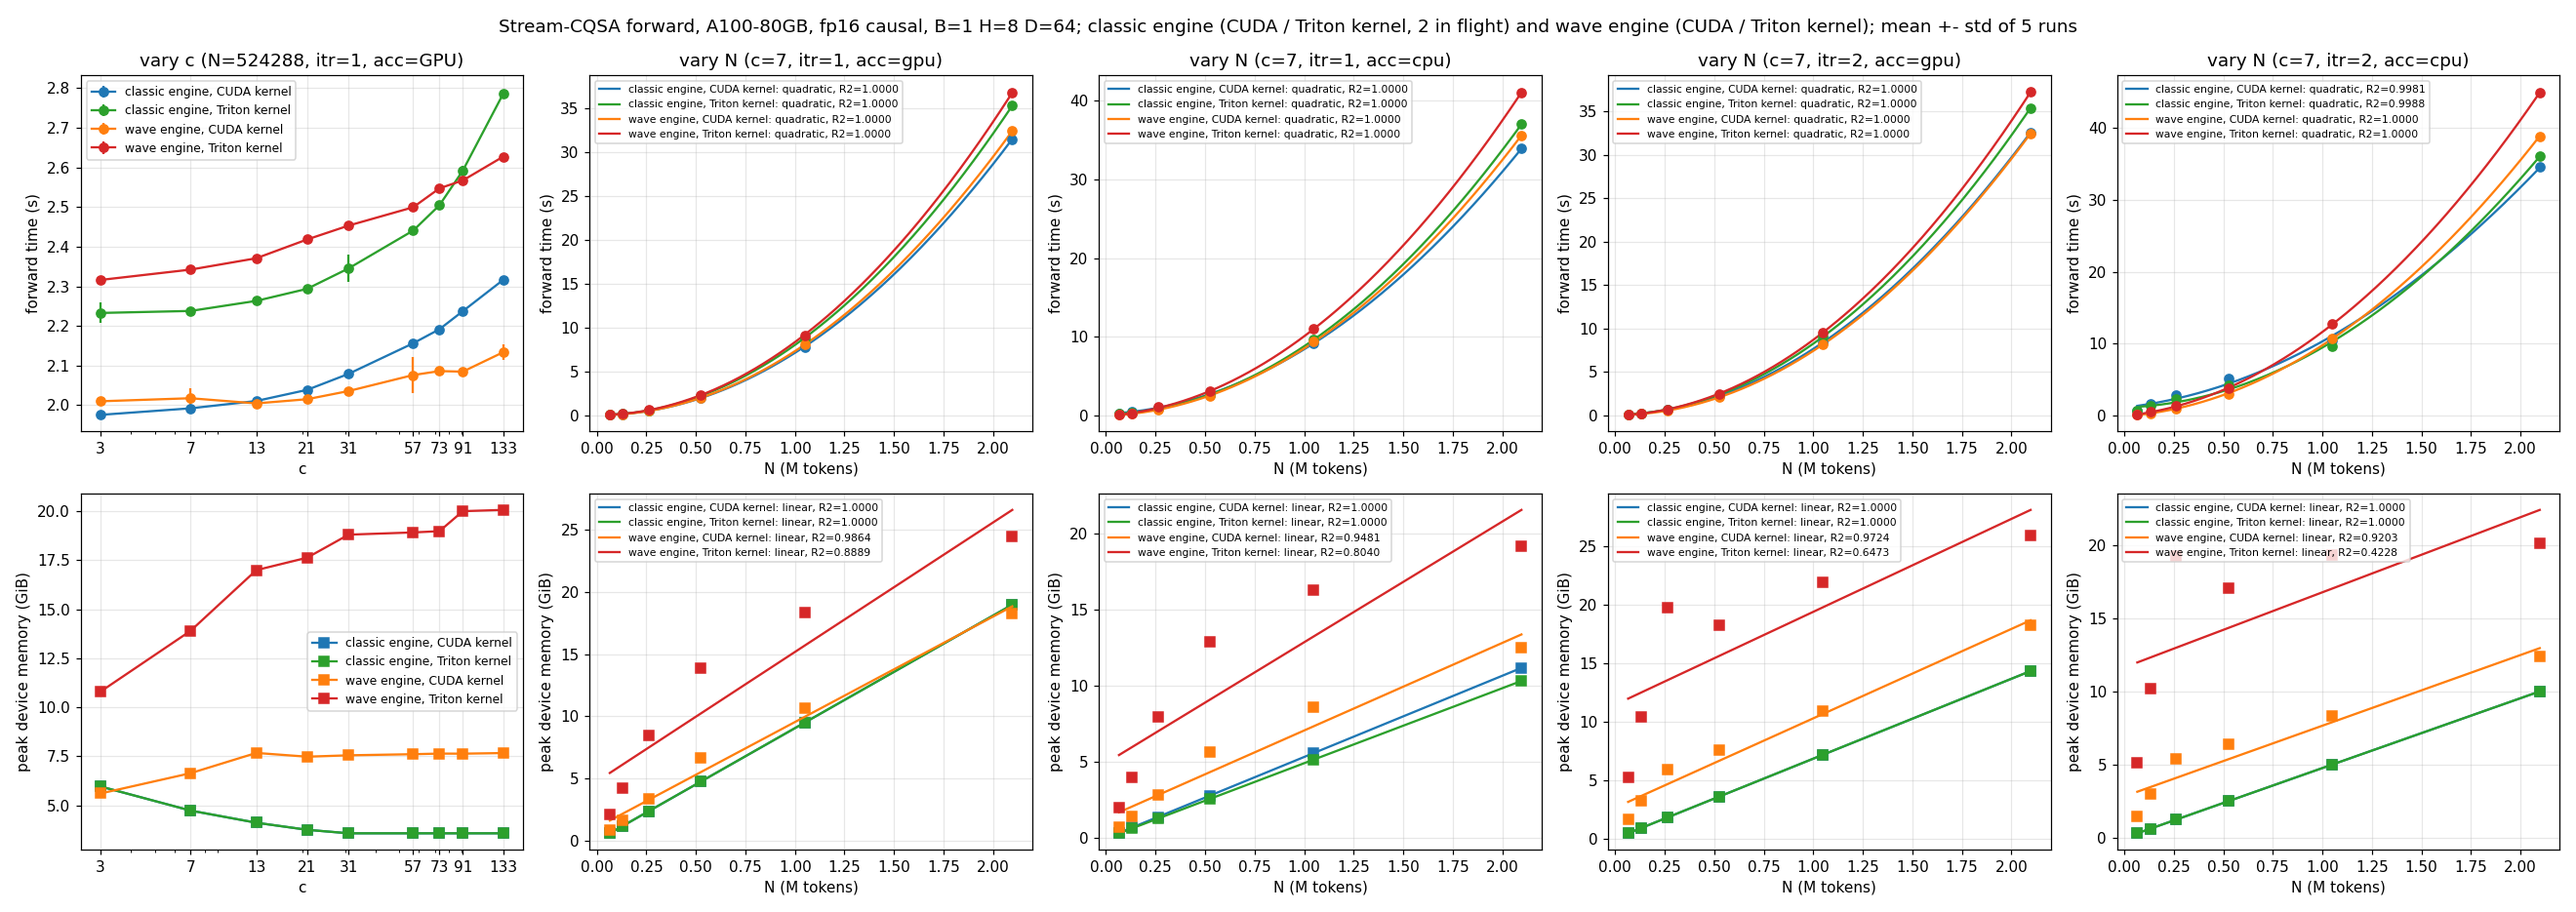
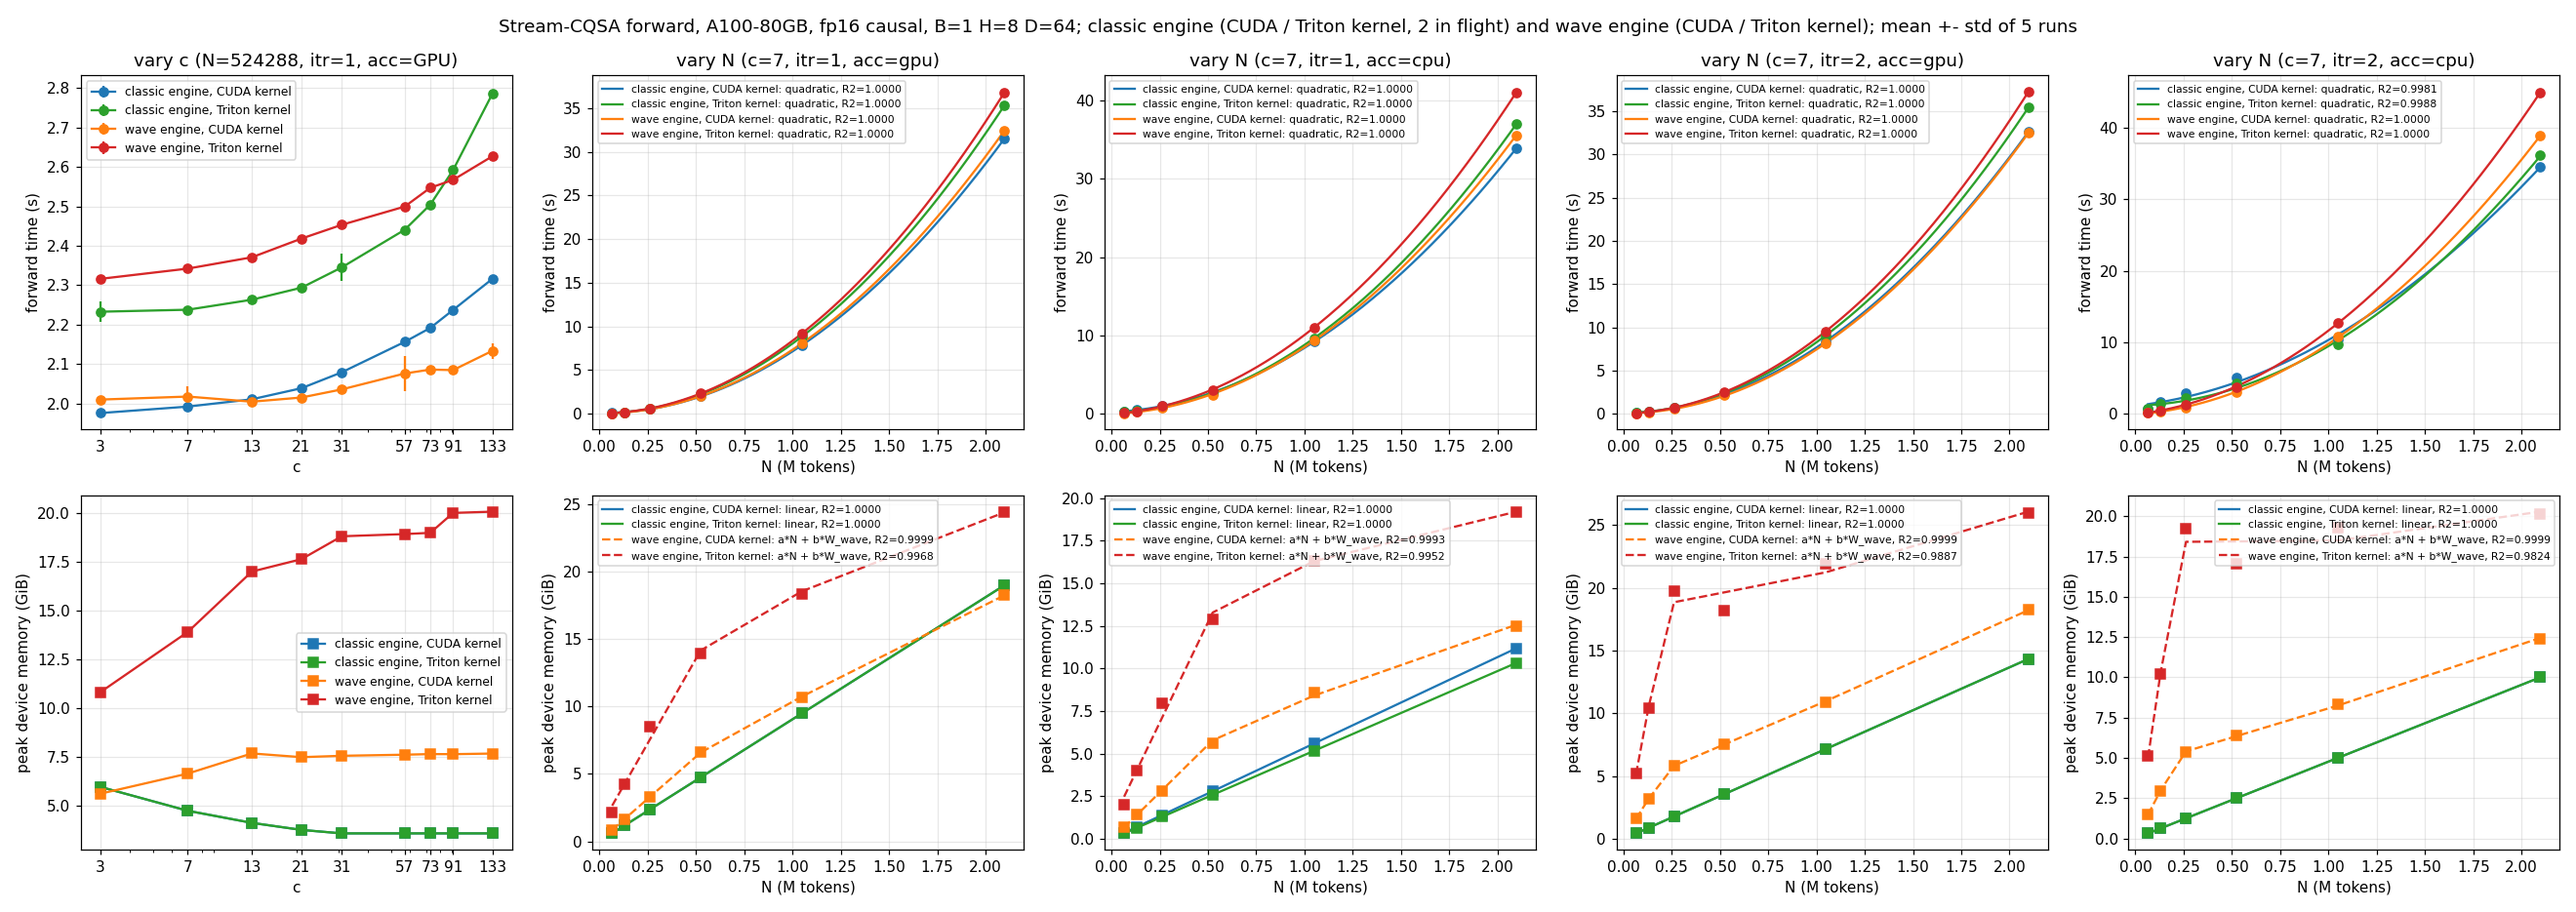
profile sweep: wave engines' peak memory modelled as a*N + b*W_wave (largest wave from the planner), R2 0.98-0.9998 instead of a poor linear fit

diff --git a/benchmarks/profile_sweep.py b/benchmarks/profile_sweep.py
@@ -98,6 +98,14 @@ def run(out_dir, reps, warmup, only=None, kernels=None):
             print(f"{cfg}: ERROR rc={r.get('rc')}", flush=True)
 
 
+def largest_wave_tokens(r) -> int:
+    """Packed tokens of the largest wave the planner forms for this row (default wave budget)."""
+    from stream_cqsa.native_wave import wave_tasks, plan_waves, DEFAULT_MAX_WAVE_TOKENS
+    from stream_cqsa.autoconfig import QUORUM_SETS
+    tasks = wave_tasks(r["N"], r["itr"], r["c"], QUORUM_SETS[r["c"]], H=H, D=D, itemsize=2)
+    return max(sum(int(t.local_size) for t in w) for w in plan_waves(tasks, DEFAULT_MAX_WAVE_TOKENS))
+
+
 def fit(out_dir):
     import matplotlib; matplotlib.use("Agg"); import matplotlib.pyplot as plt
     rows = [json.loads(l) for l in open(os.path.join(out_dir, "results.jsonl")) if "times_s" in l]
@@ -128,14 +136,25 @@ def fit(out_dir):
             if len(rs) < 3: continue
             N = np.array([r["N"] for r in rs], float); t = np.array([np.mean(r["times_s"]) for r in rs]); te = np.array([np.std(r["times_s"]) for r in rs])
             m = np.array([np.mean(r["peak_gib"]) for r in rs]); x = N / 1e6
-            pt = np.polyfit(x, t, 2); pm = np.polyfit(x, m, 1)
-            r2t, r2m = r2(t, np.polyval(pt, x)), r2(m, np.polyval(pm, x))
-            fits[f"{sw}/{kern}"] = dict(N=N.tolist(), time_s=t.tolist(), time_std=te.tolist(), peak_gib=m.tolist(),
-                                        time_fit="t[s] = %.4g*(N/1e6)^2 + %.4g*(N/1e6) + %.4g" % tuple(pt), time_r2=r2t,
-                                        mem_fit="peak[GiB] = %.4g*(N/1e6) + %.4g" % tuple(pm), mem_r2=r2m)
+            pt = np.polyfit(x, t, 2)
+            r2t = r2(t, np.polyval(pt, x))
             xx = np.linspace(x.min(), x.max(), 200)
             axes[0, j].errorbar(x, t, yerr=te, fmt="o", color=CO[kern]); axes[0, j].plot(xx, np.polyval(pt, xx), "-", color=CO[kern], label=f"{KL[kern]}: quadratic, R2={r2t:.4f}")
-            axes[1, j].plot(x, m, "s", color=CO[kern]); axes[1, j].plot(xx, np.polyval(pm, xx), "-", color=CO[kern], label=f"{KL[kern]}: linear, R2={r2m:.4f}")
+            axes[1, j].plot(x, m, "s", color=CO[kern])
+            entry = dict(N=N.tolist(), time_s=t.tolist(), time_std=te.tolist(), peak_gib=m.tolist(),
+                         time_fit="t[s] = %.4g*(N/1e6)^2 + %.4g*(N/1e6) + %.4g" % tuple(pt), time_r2=r2t)
+            if kern.startswith("wave"):
+                # the wave engines hold a whole wave of packed partial outputs: peak = a*N + b*W + c with W
+                # the packed tokens of the largest wave the planner forms (capped by the wave budget)
+                W = np.array([largest_wave_tokens(r) for r in rs]) / 1e6
+                A = np.c_[x, W, np.ones_like(x)]; pw = np.linalg.lstsq(A, m, rcond=None)[0]; r2m = r2(m, A @ pw)
+                entry.update(largest_wave_Mtok=W.tolist(), mem_fit="peak[GiB] = %.4g*(N/1e6) + %.4g*(W_wave/1e6) + %.4g" % tuple(pw), mem_r2=r2m)
+                axes[1, j].plot(x, A @ pw, "--", color=CO[kern], label=f"{KL[kern]}: a*N + b*W_wave, R2={r2m:.4f}")
+            else:
+                pm = np.polyfit(x, m, 1); r2m = r2(m, np.polyval(pm, x))
+                entry.update(mem_fit="peak[GiB] = %.4g*(N/1e6) + %.4g" % tuple(pm), mem_r2=r2m)
+                axes[1, j].plot(xx, np.polyval(pm, xx), "-", color=CO[kern], label=f"{KL[kern]}: linear, R2={r2m:.4f}")
+            fits[f"{sw}/{kern}"] = entry
         for ax, yl in ((axes[0, j], "forward time (s)"), (axes[1, j], "peak device memory (GiB)")):
             ax.set_xlabel("N (M tokens)"); ax.set_ylabel(yl); ax.legend(fontsize=7); ax.grid(alpha=0.3)
     fig.suptitle("Stream-CQSA forward, A100-80GB, fp16 causal, B=1 H=8 D=64; classic engine (CUDA / Triton kernel, 2 in flight) and wave engine (CUDA / Triton kernel); mean +- std of 5 runs")

diff --git a/README.md b/README.md
@@ -205,8 +205,15 @@ linear term is 0.03 against 0.40). At 2M tokens with acc=CPU the classic engine 
 than the wave engine because its per-subproblem host transfers overlap with compute while the wave
 engine merges each wave on the host synchronously; this is why `attention()` keeps the classic
 engine for host-accumulator forwards. Peak device memory is linear in N for the classic engine
-(9.0 GiB per M tokens at itr=1 acc=GPU, 5.3 at acc=CPU, 6.8 / 4.8 at itr=2); for the wave engine
-it is governed by the wave budget rather than by N (fits in `fits.json`).
+(9.0 GiB per M tokens at itr=1 acc=GPU, 5.3 at acc=CPU, 6.8 / 4.8 at itr=2). The wave engine's is
+not: it holds a whole wave of packed partial outputs, and the wave is capped by a token budget (2M
+packed tokens by default), so the fit is `peak = a*N + b*W_wave + c` with W_wave the largest wave the
+planner forms: wave CUDA 6.98*N + 1.92*W (R² 0.9998; Q/K/V + fp32 output + accumulator per resident
+token, one fp32 partial output per packed token), wave Triton 4.84*N + 7.79*W (R² 0.978; the wave is
+gathered into packed fp16 Q/K/V copies as well). W_wave rises with N and with c until it hits the
+budget (1.6M packed tokens at 512K, 1.8M from 1M on), which is the plateau in the plots. Within a
+wave the subproblems run in one batched launch, so the GPU schedules all of them together; waves run
+one after another.
 
 ![profile sweep](results/profile_sweep/profile_sweep.png)
 
